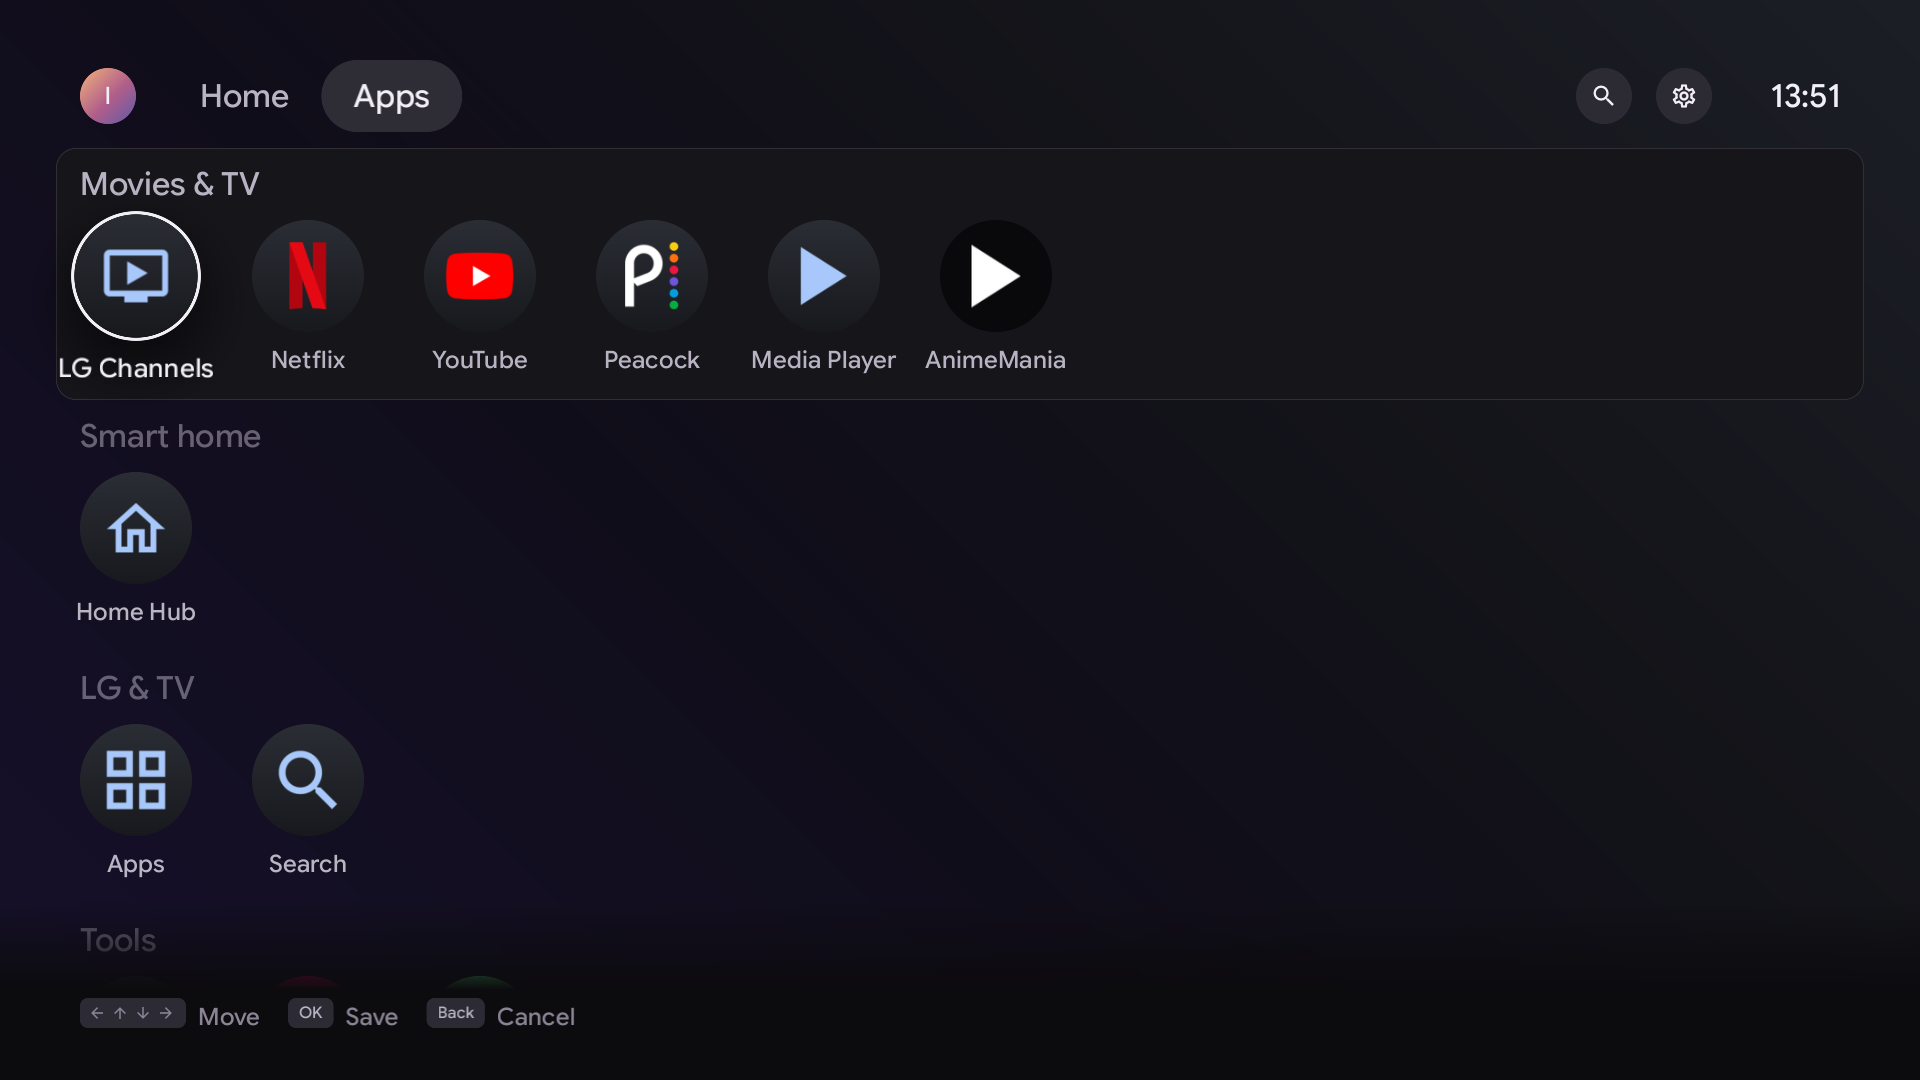
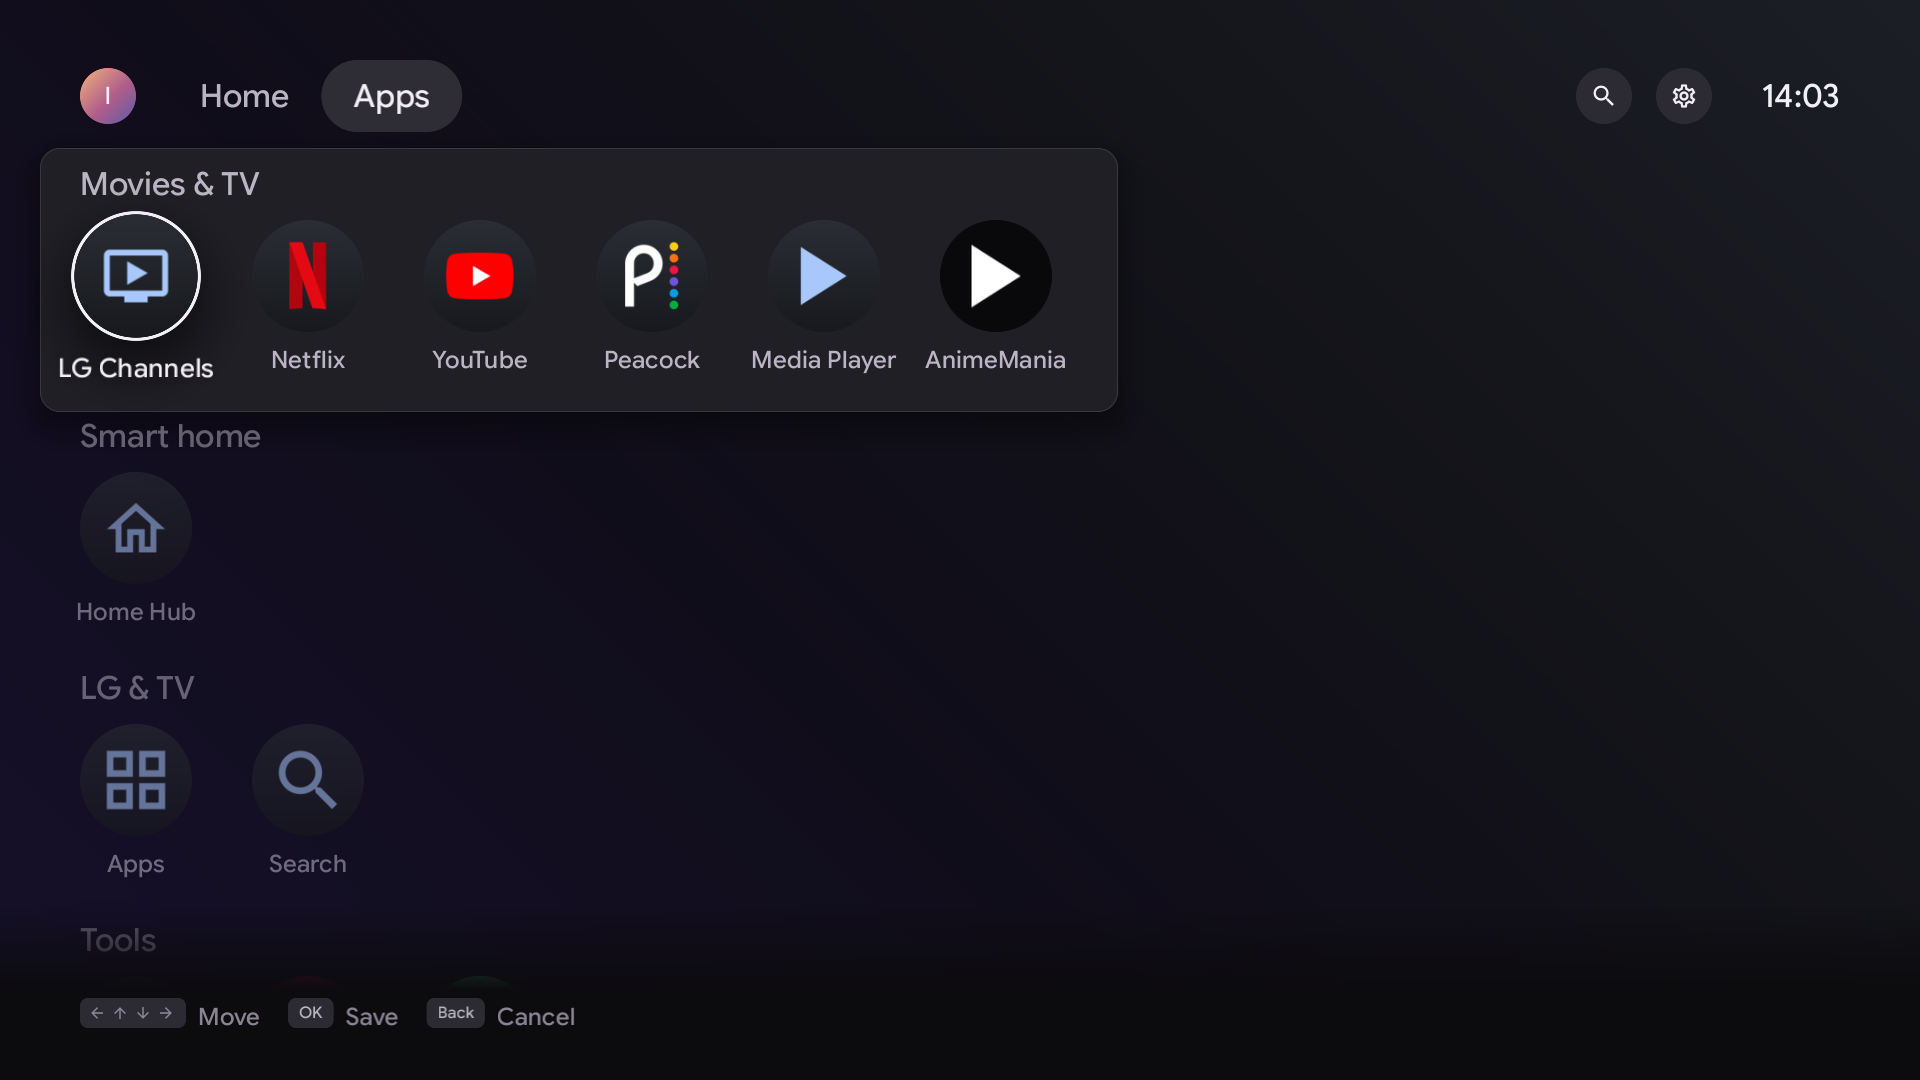
Enhance README and documentation with new features, improve UI layout for app arrangement, and update screenshots

diff --git a/native-tv/src/ui/home_view.cpp b/native-tv/src/ui/home_view.cpp
@@ -154,14 +154,25 @@ void rows(kit::Paint paint, const Frame &frame, float top = 0) {
         if (labelY > kit::canvas::height + 40 || labelY + 260 < 100)
             continue;
         if (home.arranging && ri == home.row) {
-            // The lifted row sits on a raised slab while it is being moved.
-            float height = layout::rowLabelH + layout::rowLabelGap +
-                           (home::isApps(row) ? layout::appD + 56 : layout::cardH + 12);
-            Node &slab = paint.scene.shape({kit::canvas::safeX - 24, labelY - 12,
-                                            kit::canvas::width - 2 * kit::canvas::safeX + 48,
-                                            height + 24},
-                                           kit::color::surface1, kit::radius::lg);
+            // The lifted row sits on a raised slab while it is being moved. The slab is as wide as
+            // the row, with room all round for the focused name, which is wider than its circle.
+            constexpr float kPad = 40;
+            const float left = kit::canvas::safeX - kPad;
+            float right = kit::canvas::width - kit::canvas::safeX + kPad / 2;
+            if (!row.cards.empty()) {
+                const Rect last = home::item(row, ri, row.cards.size() - 1, namedApps);
+                const float overhang = namedApps ? (layout::appGapNamed - 8) / 2 : 0;
+                right = std::min(right, last.x + last.w + overhang + kPad +
+                                            static_cast<float>(motion.value(home::id("rx", ri))));
+                right = std::max(right, left + 480);
+            }
+            const float height = layout::rowLabelH + layout::rowLabelGap +
+                                 (home::isApps(row) ? layout::appD + 56 : layout::cardH + 12);
+            Node &slab = paint.scene.shape({left, labelY - 12, right - left, height + 36},
+                                           kit::color::surface2, kit::radius::lg);
             slab.ring = {1, 0, kit::alpha::outline};
+            slab.shadow = {0, kit::elevation::raised.dy, kit::elevation::raised.blur, 0,
+                           {0, 0, 0, .5f}};
         }
         kit::Row label;
         label.index = static_cast<int>(ri);
@@ -200,6 +211,8 @@ void rows(kit::Paint paint, const Frame &frame, float top = 0) {
                 circle.enter = enter;
                 if (card.hidden) // hidden from Home: listed only while the apps are edited
                     circle.enter.alpha *= .4f;
+                if (home.arranging && ri != home.row) // the rows behind the lifted one
+                    circle.enter.alpha *= .55f;
                 kit::appCircle(paint, circle);
             } else if (row.key == "dev" || row.key == "ch") {
                 kit::InputTile tile;

diff --git a/README.md b/README.md
@@ -49,10 +49,13 @@ Use it to control an LG OLED or LCD TV without the cloud, see and switch off wha
 * **[Debloat and home screen cleanup](https://ihtisham1211.github.io/native-tv/dashboard/apps/).** Install apps from the Homebrew Channel catalogue, uninstall LG apps to reclaim flash storage, disable background system services to free RAM and CPU, hide built-in apps from the launcher, and on webOS 9 strip LG's Home screen down to apps and inputs.
 * **[Admin PIN](https://ihtisham1211.github.io/native-tv/administration/security/).** A four-digit PIN, asked in the TV's first-run setup, guards installing and removing apps, SSH keys, restoring a backup and power actions, on the TV and in the dashboard; a browser without the access token signs in with it.
 * **[Switch off when idle](https://ihtisham1211.github.io/native-tv/dashboard/advanced/#switch-off-when-idle).** Pick how long the TV may sit with no key press, no change and nothing playing before it switches itself off: 15 minutes, 30 minutes, then every hour up to eight. A toast warns a minute before, and an HDMI input is never switched off.
+* **[Power and standby](https://ihtisham1211.github.io/native-tv/dashboard/advanced/#power-and-standby).** Keep the TV on the network while it is off, Quick Boot, Wake-on-LAN, Always Ready and the On and Off timers, and a switch that [blocks LG's firmware updates](https://ihtisham1211.github.io/native-tv/dashboard/advanced/#system-updates), which can take root access away.
 * **[Remote button remapping](https://ihtisham1211.github.io/native-tv/dashboard/apps/#remote-keys).** Point Netflix, Prime Video, Guide, the colour keys and other shortcut buttons at any app, an HDMI input or Live TV. The change survives reboots.
 * **[OLED care](https://ihtisham1211.github.io/native-tv/dashboard/oled-care/).** Panel hours, compensation cycle progress, Pixel Refresher scheduling and failure alerts, and switches for screen shift, logo dimming, ASBL and Global Stress Reduction, which are normally reachable only from the service menu.
+* **[Game mode](https://ihtisham1211.github.io/native-tv/dashboard/game/).** On TVs with LG's Game Optimizer, a game's frame rate in large type while the source uses VRR, beside the Optimizer's settings: genre, VRR and G-Sync, FreeSync Premium, ALLM, dark room mode and AI Game Sound.
 * **[Home Assistant and MQTT](https://ihtisham1211.github.io/native-tv/integrations/home-assistant/).** The TV appears as one device through MQTT Discovery, with controls, telemetry and [remote button events](https://ihtisham1211.github.io/native-tv/integrations/home-assistant-remote-buttons/) for automations. The same topics work for any MQTT client.
 * **[Monitoring](https://ihtisham1211.github.io/native-tv/dashboard/metrics/).** SoC temperature, per-core CPU load, memory, swap, Wi-Fi signal and throughput; [Prometheus metrics](https://ihtisham1211.github.io/native-tv/integrations/prometheus/) and [syslog forwarding](https://ihtisham1211.github.io/native-tv/integrations/syslog/).
+* **[Backup and logs](https://ihtisham1211.github.io/native-tv/dashboard/server/).** LG's sound, device, HDMI and ad settings and Native Tv's own, saved to a file or once a day on the TV and restored on the same TV or another. The [System, Native Tv and kernel logs](https://ihtisham1211.github.io/native-tv/dashboard/tools/) in one searchable timeline in the browser, with no SSH, and private details hidden when copied or exported.
 * **[Screen savers](https://ihtisham1211.github.io/native-tv/dashboard/screen-savers/) and [the service menu](https://ihtisham1211.github.io/native-tv/dashboard/service-menu/).** A clock, starfield, fireworks or the TV's own readings in place of LG's screen saver; LG's engineering menu opened from a browser, with no service remote, and unlocked where newer firmware cuts it down.
 * **[A native TV app](https://ihtisham1211.github.io/native-tv/apps/tv-app/).** A C++ and OpenGL ES client after Google TV's design puts the same readings and controls on the TV, driven by the remote, and offers [Native Tv Home](https://ihtisham1211.github.io/native-tv/dashboard/home/) as a replacement home screen. It is drawn on the GPU at the display's 60 frames a second with no browser behind it; on the test TV, under a heavy load, [frames arrive 15 to 18 ms apart](https://ihtisham1211.github.io/native-tv/apps/tv-app/#how-smooth-it-is).
 

diff --git a/docs/index.md b/docs/index.md
@@ -36,10 +36,16 @@ Native Tv is a server that runs directly on a rooted LG webOS TV, with a live da
 * **[Control the TV without the cloud](dashboard/control.md).** D-pad, volume, playback keys, app launcher, picture presets, sound output, power and reboot.
 * **[See what the TV collects, and switch it off](dashboard/privacy.md).** LG's content recognition (ACR, Live Plus), the advertising identifier, data agreements, and an on-TV blocker for LG's ad and telemetry servers. [What LG's ACR does](administration/acr.md).
 * **[Debloat and clean up](dashboard/apps.md).** Install Homebrew Channel apps, uninstall LG apps, stop background services, hide system apps from the launcher.
+* **[Guard risky actions with an admin PIN](administration/security.md).** A four-digit PIN, asked in the TV's first-run setup, is needed to install and remove apps, change SSH keys, restore a backup and use the power actions, on the TV and in the dashboard.
+* **[Control power and standby](dashboard/advanced.md#power-and-standby).** Stay on the network while off, Quick Boot, Wake-on-LAN, Always Ready, the On and Off timers, and a switch that [blocks LG's firmware updates](dashboard/advanced.md#system-updates), which can take root access away.
 * **[Remap the remote's buttons](dashboard/apps.md#remote-keys).** Point Netflix, Prime Video, Guide and the colour keys at any app, HDMI input or Live TV.
 * **[Replace the screen saver](dashboard/screen-savers.md)** with a clock, starfield, fireworks or the TV's own readings.
 * **[Switch the TV off when idle](dashboard/advanced.md#switch-off-when-idle).** After 15 minutes to eight hours with no key press, no change and nothing playing, with a toast a minute before; an HDMI input is never switched off.
 * **[Protect and monitor an OLED panel](dashboard/oled-care.md).** Panel hours, Pixel Refresher scheduling, and switches for screen shift, logo dimming, ASBL and Global Stress Reduction.
+* **[Check the game's frame rate](dashboard/game.md).** On TVs with LG's Game Optimizer, the frame rate in large type while the source uses VRR, beside the Optimizer's settings.
+* **[Monitor the hardware](dashboard/metrics.md).** SoC temperature, per-core CPU load, memory, swap, Wi-Fi signal and throughput.
+* **[Back up the settings](dashboard/server.md)** to a file or once a day on the TV, and restore them on the same TV or another.
+* **[Read the TV's logs](dashboard/tools.md)** in one searchable timeline in the browser, with no SSH, and with private details hidden when copied or exported.
 * **[Connect it to Home Assistant](integrations/home-assistant.md).** An MQTT bridge with Discovery exposes the TV as one device; the remote's buttons can trigger automations. [Prometheus metrics](integrations/prometheus.md) and [log forwarding](integrations/syslog.md) are there for monitoring.
 * **[Open the service menu](dashboard/service-menu.md)** from a browser, with no service remote, and unlock it where newer firmware cuts it down.
 * **[Use it on the TV itself](apps/tv-app.md).** A native app on the home screen, driven by the remote and [drawn at 60 frames a second](apps/tv-app.md#how-smooth-it-is).
